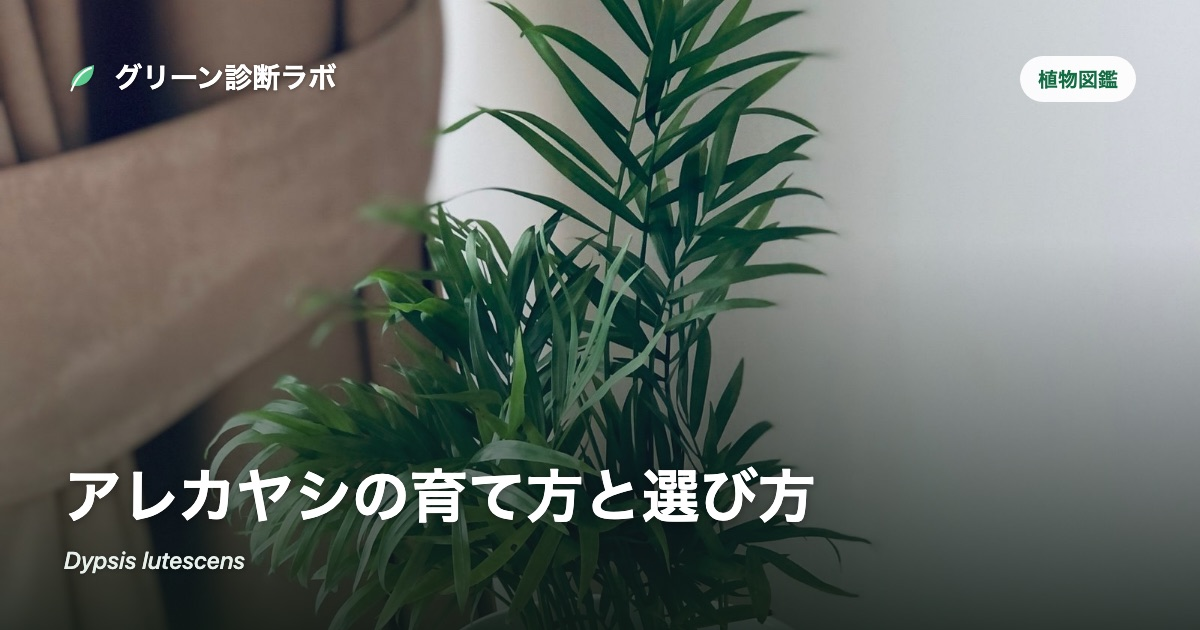
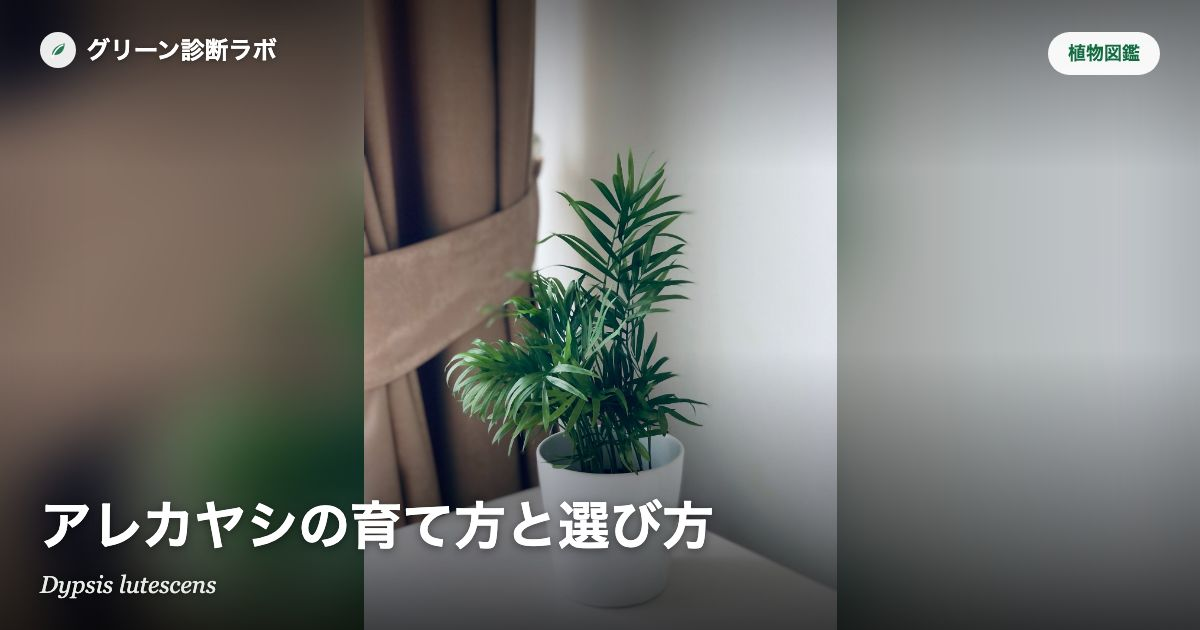
fix: ガジュマル・アレカヤシのOGP画像で植物の上部が見切れる不具合を修正
縦長で被写体周りの余白が大きい元写真をbackground-size: coverだけで
1200x630に敷くと、鉢植えの上部が枠外に切れて見えなくなっていた
(本人指摘「ogpが全部写っていない」)。ぼかした同一写真を下地に敷き、
その上に高さぴったり(トリミングなし)の前面レイヤーを重ねる2層構成に変更し、
植物全体が常に写るようにした。

diff --git a/public/og/README.md b/public/og/README.md
@@ -17,3 +17,17 @@
 バッジ（植物ページは「植物図鑑」、ガイドは「お悩み解決ガイド」）、下部に見出し・学名（または
 サブコピー）を置くレイアウトを再現すればよい。配色は`--accent`系のグリーン、見出しは白文字+
 グラデーション影で背景写真の上でも読めるようにしている。
+
+### 注意: 縦長・被写体が小さい写真は`background-size: cover`だけだと切れる
+2026-08-22、`gajumaru.jpg`と`areca-palm.jpg`で、鉢植え全体の周りに白背景の余白が大きい縦長写真
+（`gajumaru.jpg`元写真1600×2189、`areca-palm.jpg`元写真1600×2133）を単純に
+`background-size: cover`で1200×630に敷くと、被写体（鉢植えの上部）が枠の外に出て
+見切れる不具合が発生した（本人指摘「ogpが全部写っていない」で発覚）。
+横幅1200pxに合わせてcoverすると、切り出せる縦の窓（630px相当）より被写体の縦の占有範囲の方が
+大きいため、どの`background-position`を選んでも上下どちらかが切れる。
+対策として、そういう写真は2層構成にした: ①同じ写真を`background-size: cover`+
+`filter: blur(28px) brightness(0.9)`でカード全面に敷く下地レイヤー、②その上に
+`background-size: auto 630px`（＝高さぴったりで幅は縦横比なりに自動計算、横は必ず余る）で
+被写体を一切トリミングしないシャープな前面レイヤーを重ねる。写真自体の白背景と下地のぼかしが
+自然になじむため、レターボックスの継ぎ目が目立たない。閉じたクロースアップ写真
+（`pachira.jpg`等、被写体が枠いっぱいに近い）はこの対策不要、従来通り単層coverでよい。
